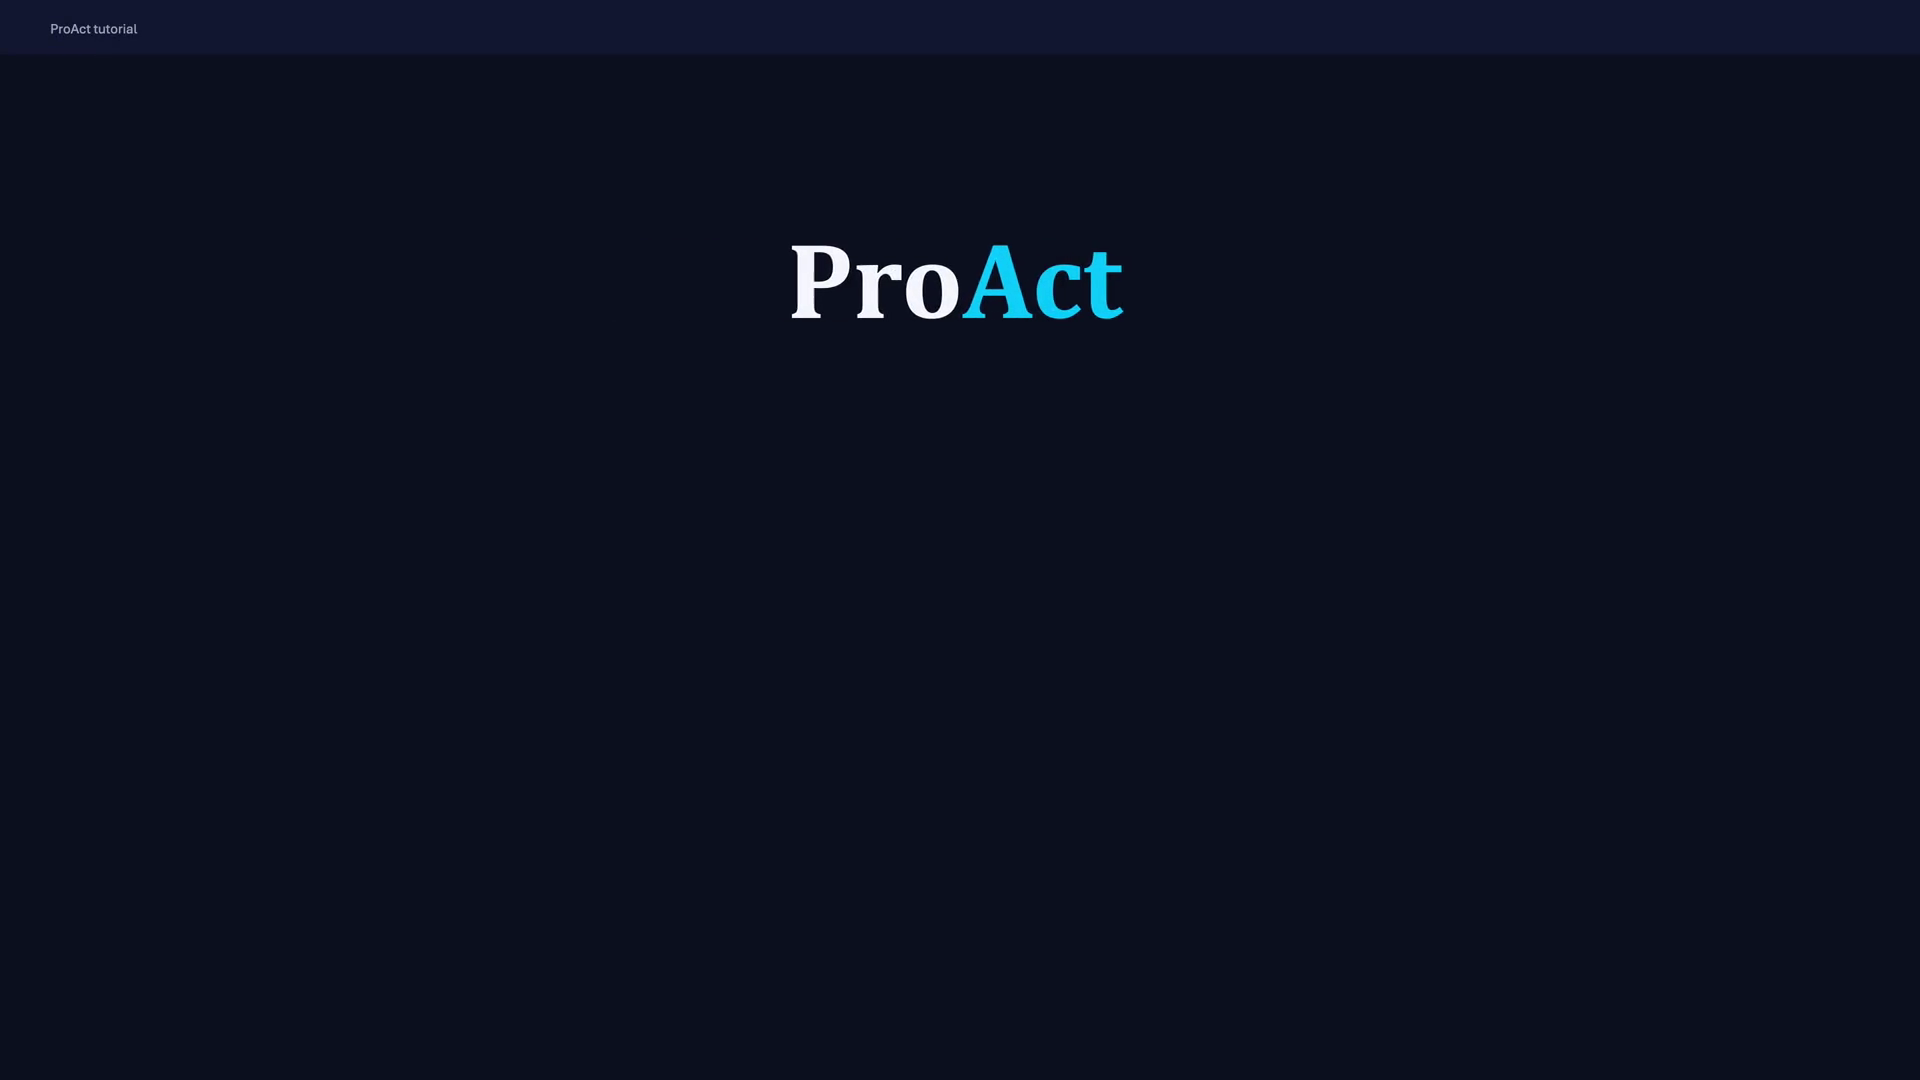
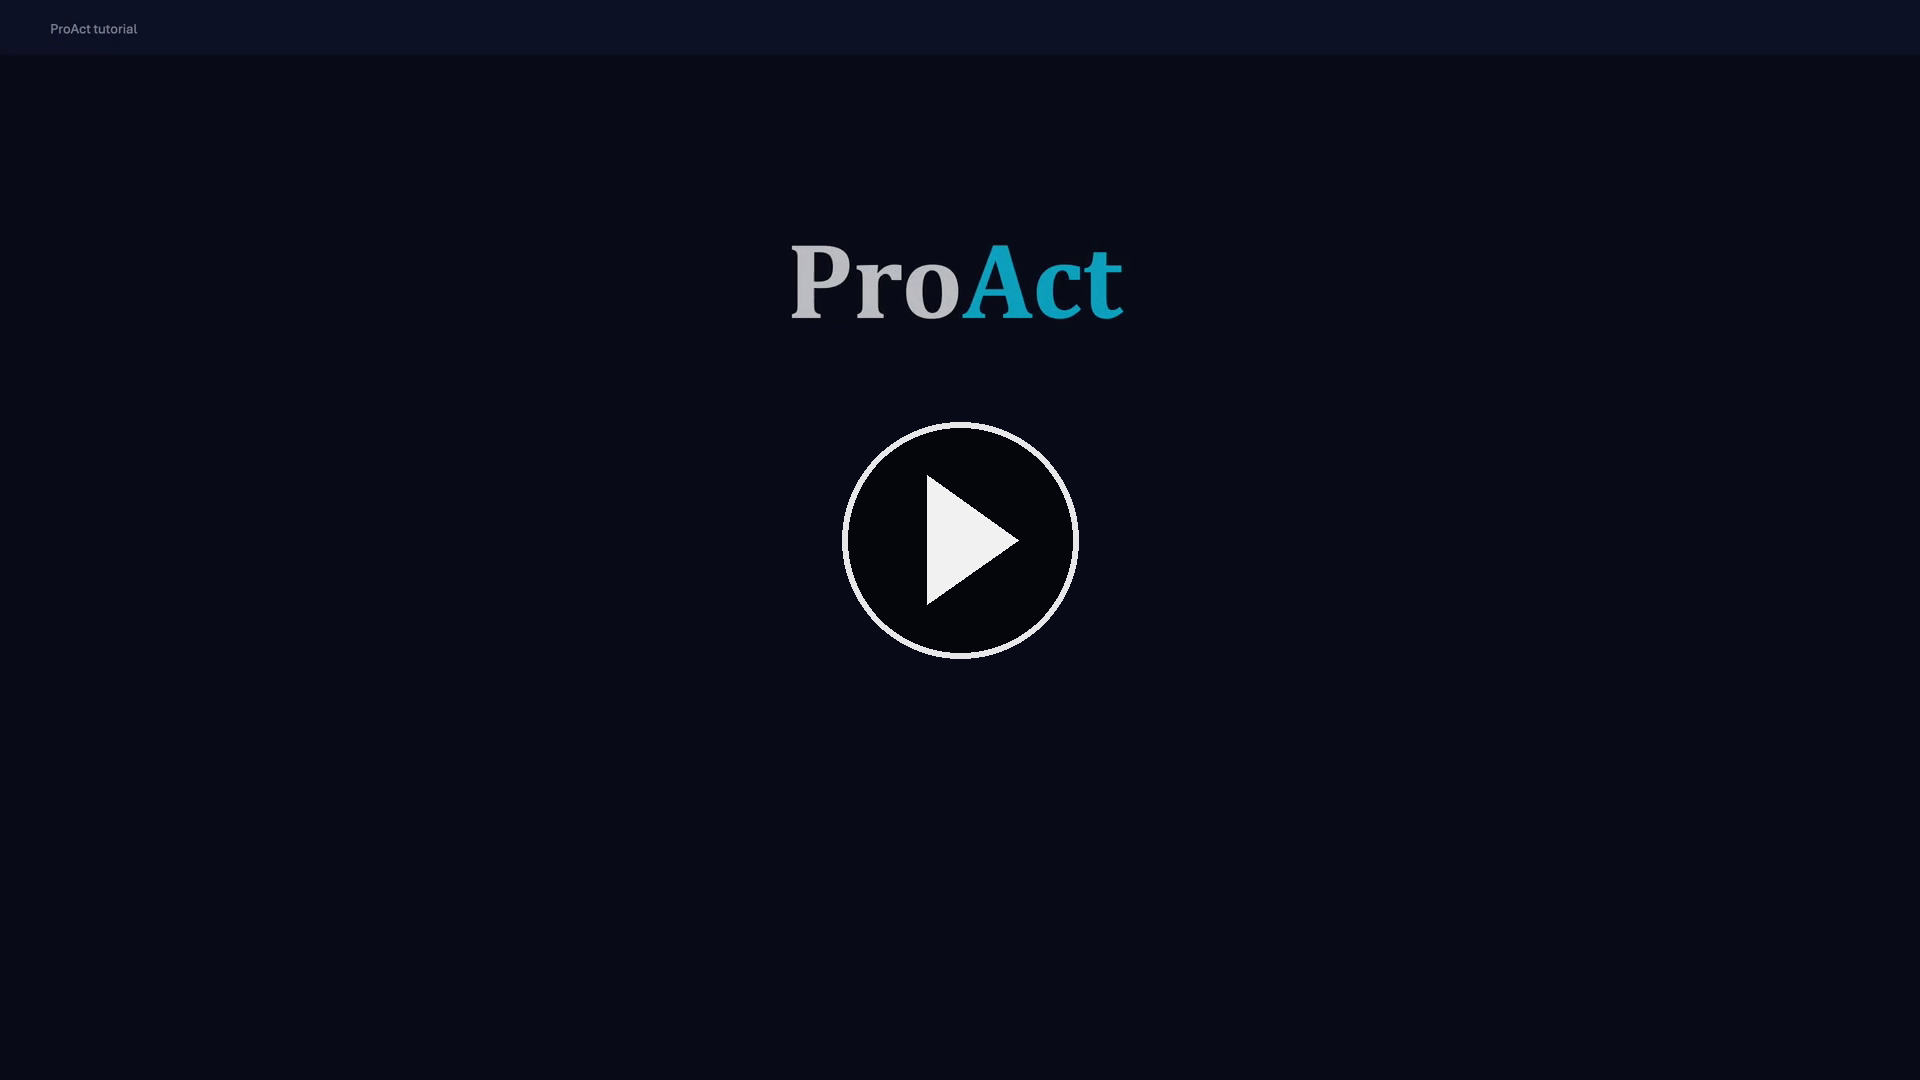
docs: use clickable poster thumbnail linking to tutorial video

Changed region(s): [[0.4375, 0.3972, 0.5625, 0.5806], [0.4062, 0.2139, 0.5938, 0.3056], [0.4688, 0.5806, 0.5312, 0.6111]]

diff --git a/README.md b/README.md
@@ -6,11 +6,13 @@
 </p>
 
 <p align="center">
-  <video src="https://github.com/ZhuXMMM/ProAct/releases/download/assets/tutorial.mp4" poster="pic/tutorial_poster.png" width="720" controls muted loop playsinline></video>
+  <a href="https://github.com/ZhuXMMM/ProAct/releases/download/assets/tutorial.mp4">
+    <img src="pic/tutorial_poster.png" width="720" alt="ProAct tutorial video — click to play" />
+  </a>
 </p>
 
 <p align="center">
-  <i>▶️ ProAct tutorial video. If it does not play inline, <a href="https://github.com/ZhuXMMM/ProAct/releases/download/assets/tutorial.mp4">click here to watch/download</a>.</i>
+  <i>▶️ Click the thumbnail to watch the ProAct tutorial video.</i>
 </p>
 
 📄 **Paper:** [arXiv:2602.03430](https://arxiv.org/abs/2602.03430)